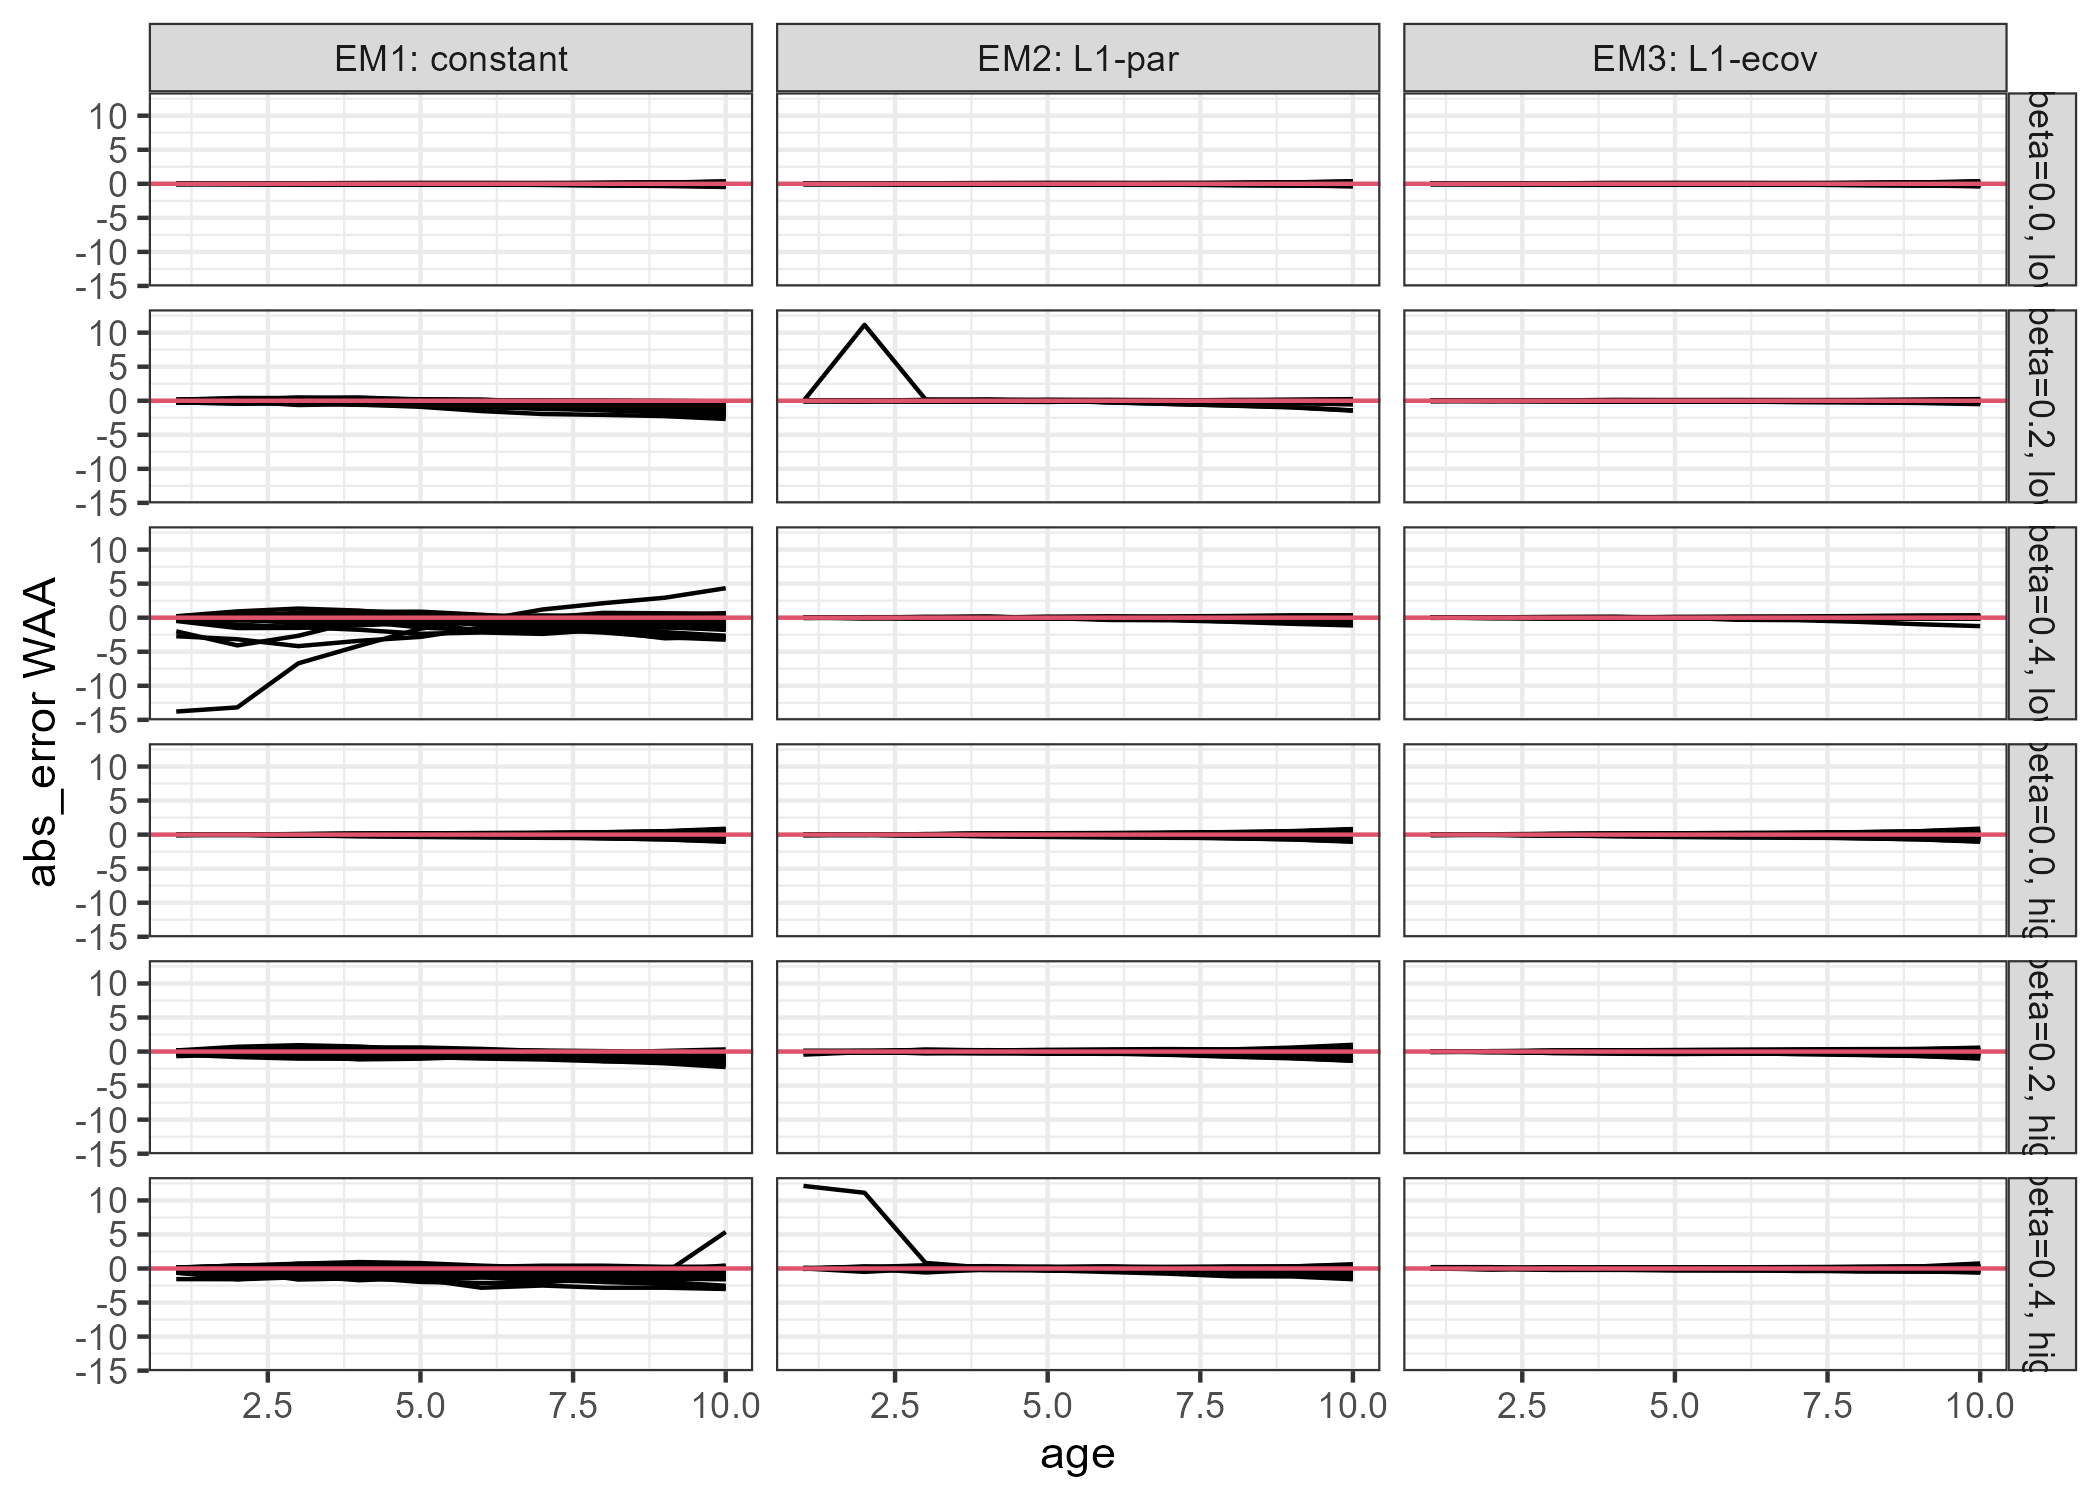
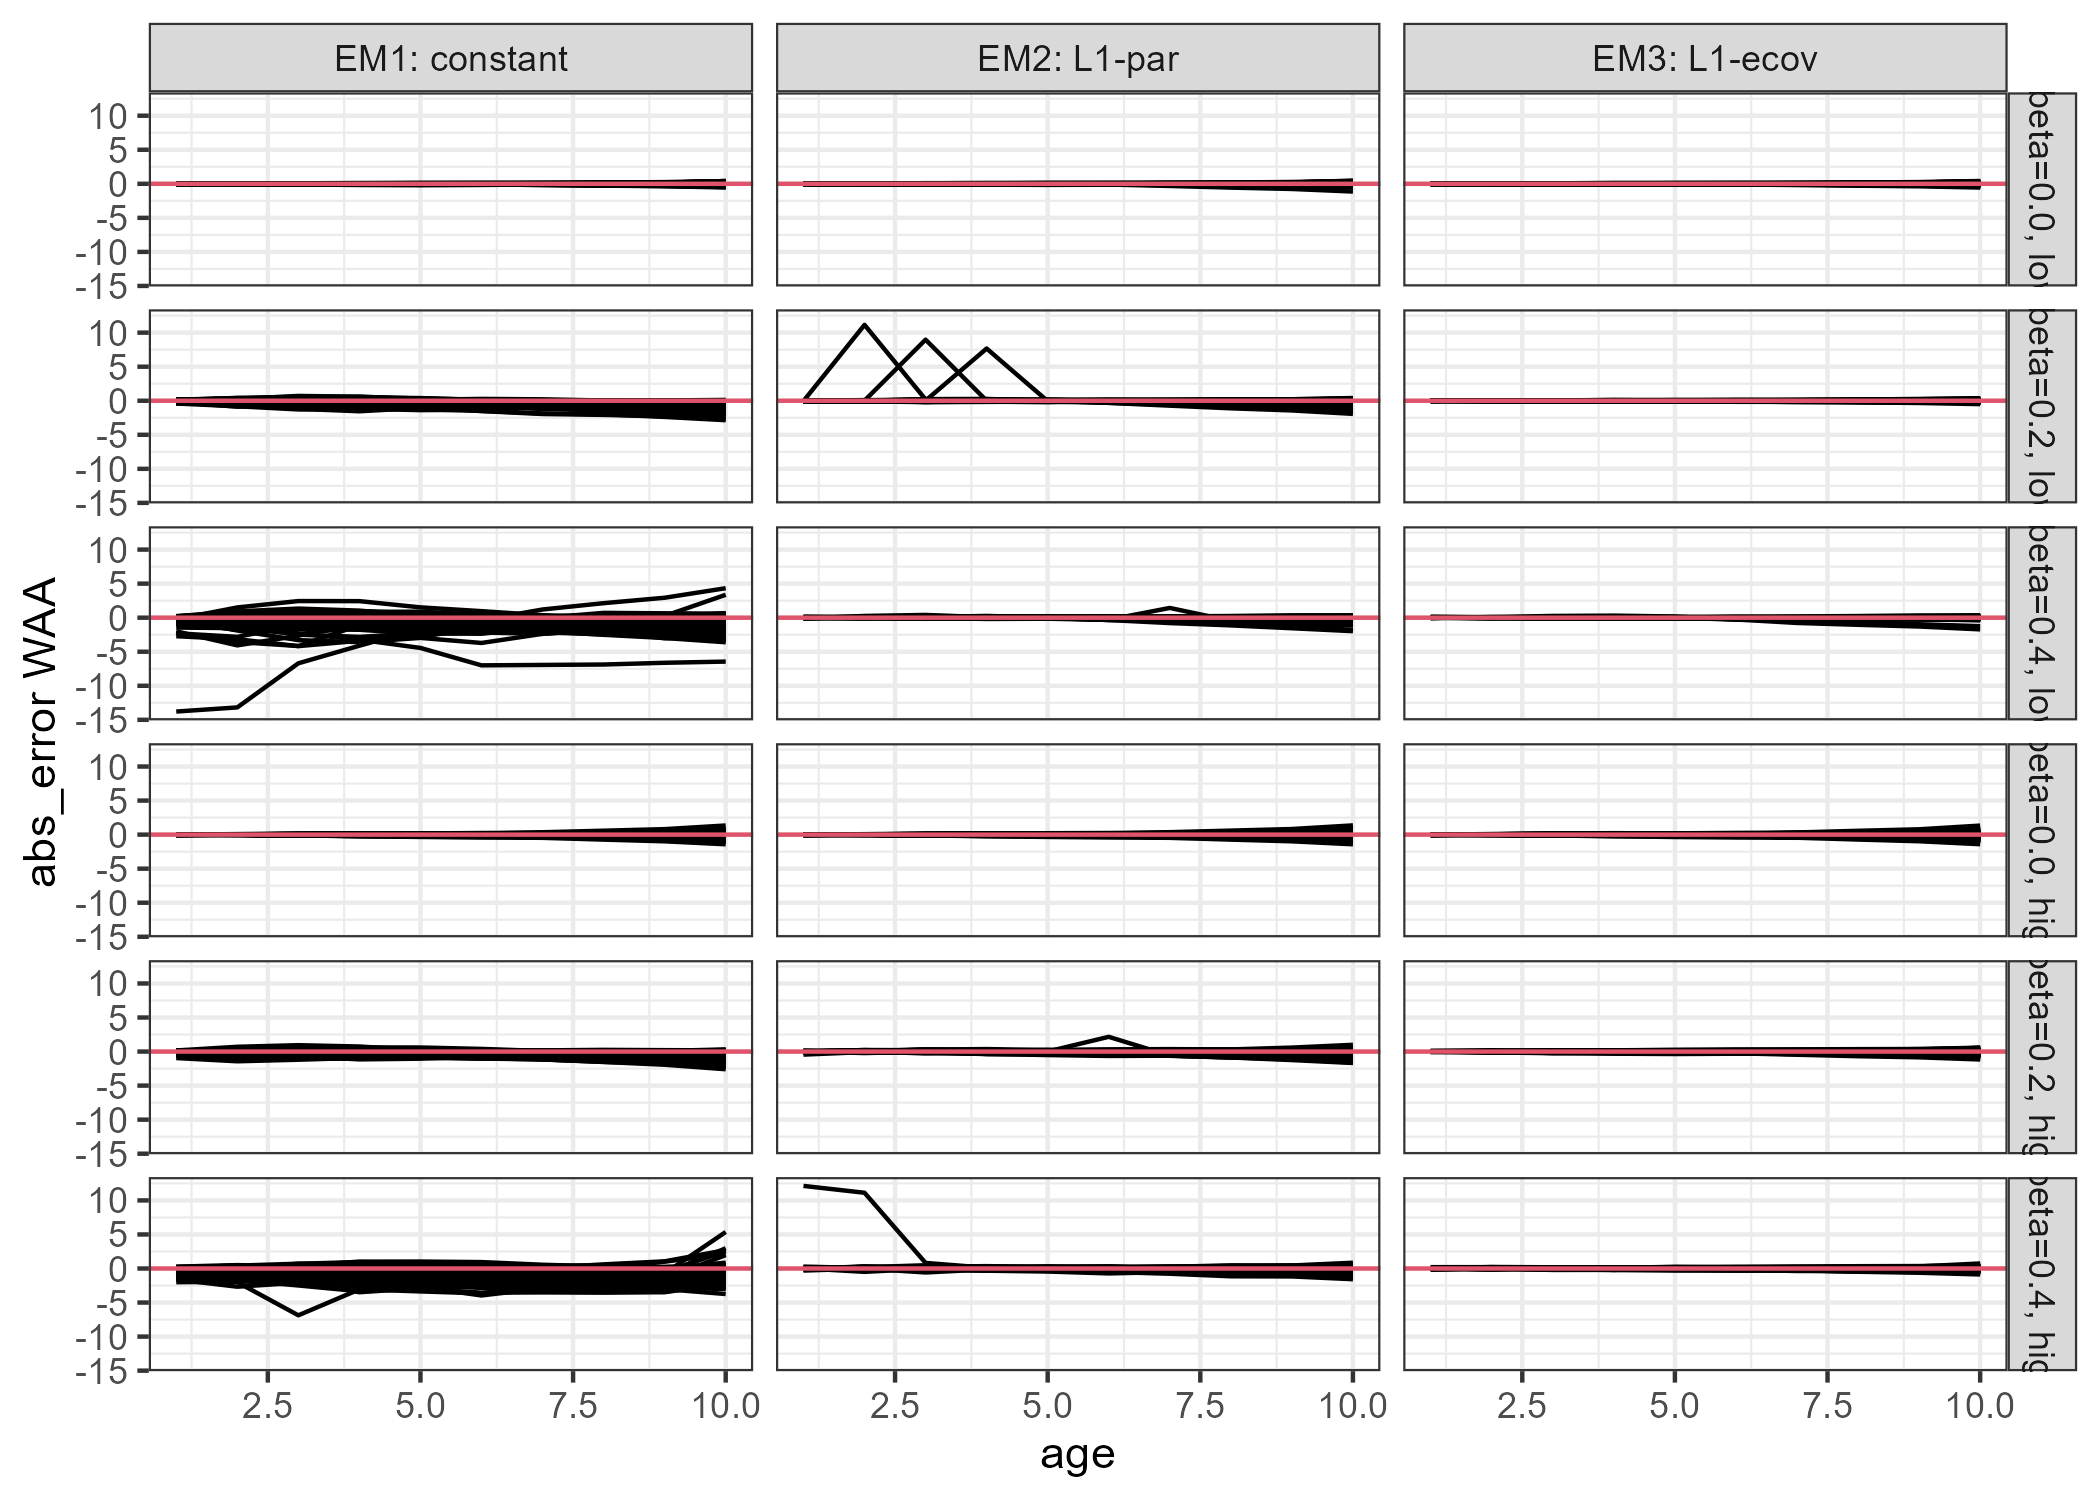
Run more growth sims and update results and plots for WP

diff --git a/Ecov_study/growth/README.md b/Ecov_study/growth/README.md
@@ -1,63 +1,9 @@
 # Growth
 
-Under development!! and not updated below
+This repo contains code to run a simulation test for time-varying growth in WHAM. It uses the 'growth' branch of WHAM which contains some new additions required for these models. We based the simulation off the Ecov_M repo, modifying as little as necessary. Please see the README files for the other repos for more information on the setup. 
 
-In all there are 288 Operating models which were used to simulate 100 time series and observations. Any process errors configured in the operating model were simulated and, conditional on the simulated process errors, all aggregate, age composition and environmental covariates were simulated.
+A draft writeup can be found online [here](https://docs.google.com/document/d/1RXnyJqSyxeWxtkjTQ1H-HrqfZ2PwO7qB/edit) with further details.
 
-### Population
-
-The population structure and demographic parameters are the same as those in the Project 0 simulation study.
-
-There are 10 age classes: ages 1 to 10+.
-
-Spawning was assumed to occur 1/4 of the way through the year.
-
-Natural mortality rate was assumed 0.2 when it was constant and the mean of the time series process for operating models with M random effects.
-maturity a50 = 2.89, slope = 0.88
-  
-Weight at age was generated with a LVB growth
-
-$$L_a = L_{\infty}\left(1 - e^{-k(a - t_0)}\right) $$
-
-where $t_0 = 0$, $L_\infty = 85$, and $k = 0.3$, and a L-W relationship such that 
-
-$$W_a = \theta_1 L_a^{\theta_2}$$
-
-where $\theta_1 = e^{-12.1}$ and $\theta_2 = 3.2$.
-
-We assumed a Beverton-Holt stock recruit function with constant pre-recruit mortality parameters for all operating models. All post-recruit productivity components other than natural mortality are constant in the operating models. For operating models with no M process errors and no environmental covariate effects M would also be constant. We specified stock-recruit parameters by equating Fmsy and F40 = 0.348 under the model where M is constant and unfished recruitment was assumed $R_0 = e^{10}$. This equates to a steepness of 0.69 and $\alpha=0.60$ and $\beta = 2.4 \times 10^{-5}$ for the Beverton-Holt parameterization
-$$N_{1,y} = \frac{\alpha \text{SSB}_{y-1}}{1 + \beta \text{SSB}_{y-1}}. $$
+To rerun the simulation execute the `code/run_ems.R` script after installing the necessary R packages and WHAM version.
 
 
-The magnitude of the overfishing assumptions is based on average estimates of overfishing for NE groundfish stocks from Wiedenmann et al. (20XX). Legault et al. (2023) also used similar approaches to defining fishing mortality histories for operating models.
-
-### Fleets
-
-We assumed a single fleet operating year round for catch observations with logistic selectivity for the fleet with $a_{50} = 5$ and slope = 1. This selectivity is was used to define $F_{\text{MSY}}$ for the Beverton-Holt stock recruitment parameters above. We assumed a logistic-normal distribution for the age-composition observations for the fleet.
-
-
-Initial population was configured at the equilibrium distribution fishing at either $F = 2.5\times F_{\text{MSY}}$ or $F = F_{\text{MSY}}$ for the two alternative fishing histories. That is for a deterministic model, the age composition would not change over time when the fishing mortality was constant at the respective level. 
-
-### Indices
-Two time series of surveys are assumed and observed in numbers rather than biomass for the entire 40 year period with one occurring in the spring (0.25 way through the year) and one in the fall (0.75 way through the year). Catchability of both surveys are assumed to be 0.1.  We assumed logistic selectivity for both indices with $a_{50} = 5$ and slope = 1. We assumed a logistic-normal distribution for the age-composition observations.
-
-## Factors defining operating models
-
-### Process errors in numbers at age and natural mortality
-
-We assumed one of three different configurations of process errors in numbers at age and/or natural mortality. In the first ("rec"), we assume iid deviation of log-recruitment from the stock-recruit function predicted log-recruitment with standard errors of 0.5. In the second ("rec+1") we assumed iid process errors in both recruitment (sd = 0.5) and transitions in log-abundance between years 
-$$ log N_{y,a} \sim \text{N} \left(\log {\hat N} , sd = 0.3\right). $$
-In the third configuration ("rec+M") we assumed iid process errors for recruitment (sd = 0.5) and iid annual process errors in log-natural mortality (sd = 0.3) constant at all ages.
-
-### Environmental covariates
-
-We assumed state-space models for covariates. The latent "true" covariate was assumed to arise as a first order autoregressive process with mean 0 and standard deviation of either 0.1 or 0.5. The correlation of the process was either 0 (iid) or 0.5. The error in the observations of this process have standard deviations of 0.1 or 0.5. Finally the linear effect on log-natural mortality was 0 (no effect), 0.25, or 0.5. All 24 combinations of these assumptions were used to defined operating models.
-
-### Fishing histories
-All operating models assumed one of two different fishing histories. 
-One : Fishing mortality is equal to $F_{\text{MSY}}$ (0.348) for the whole 40 year period.
-Two : Fishing mortality is 2.5 times $F_{\text{MSY}}$ for the first 20 years then changes to $F_{\text{MSY}}$ for the last 20 years.
-
-### Observation Uncertainty 
-
-Standard deviation for log-aggregate catch was 0.1. There were two levels of observation error variance for indices and age composition for both indices and fleet catch. A low uncertainty specification assumed standard deviation of both series of log-aggregate index observations was 0.1 and the standard deviation of the logistic-normal for age composition observations was 0.3 In the high uncertainty specification the standard deviation for log-aggregate indices was 0.4 and that for the age composition observations was 1.5. For all estimating models, standard deviation for log-aggregate observations was assumed known whereas that for the logitic-normal age composition observations was estimated.
